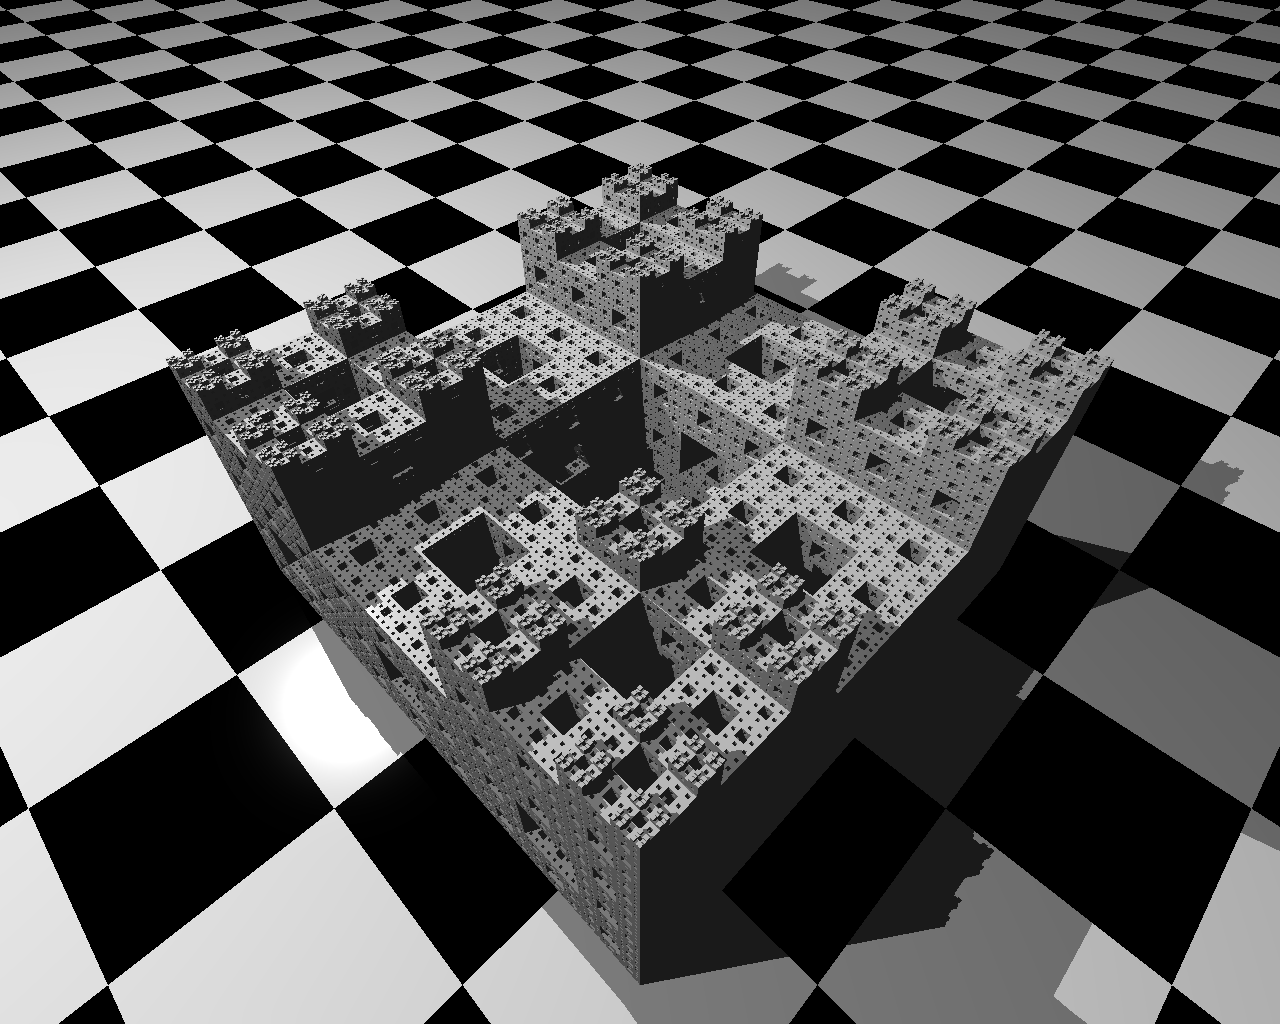
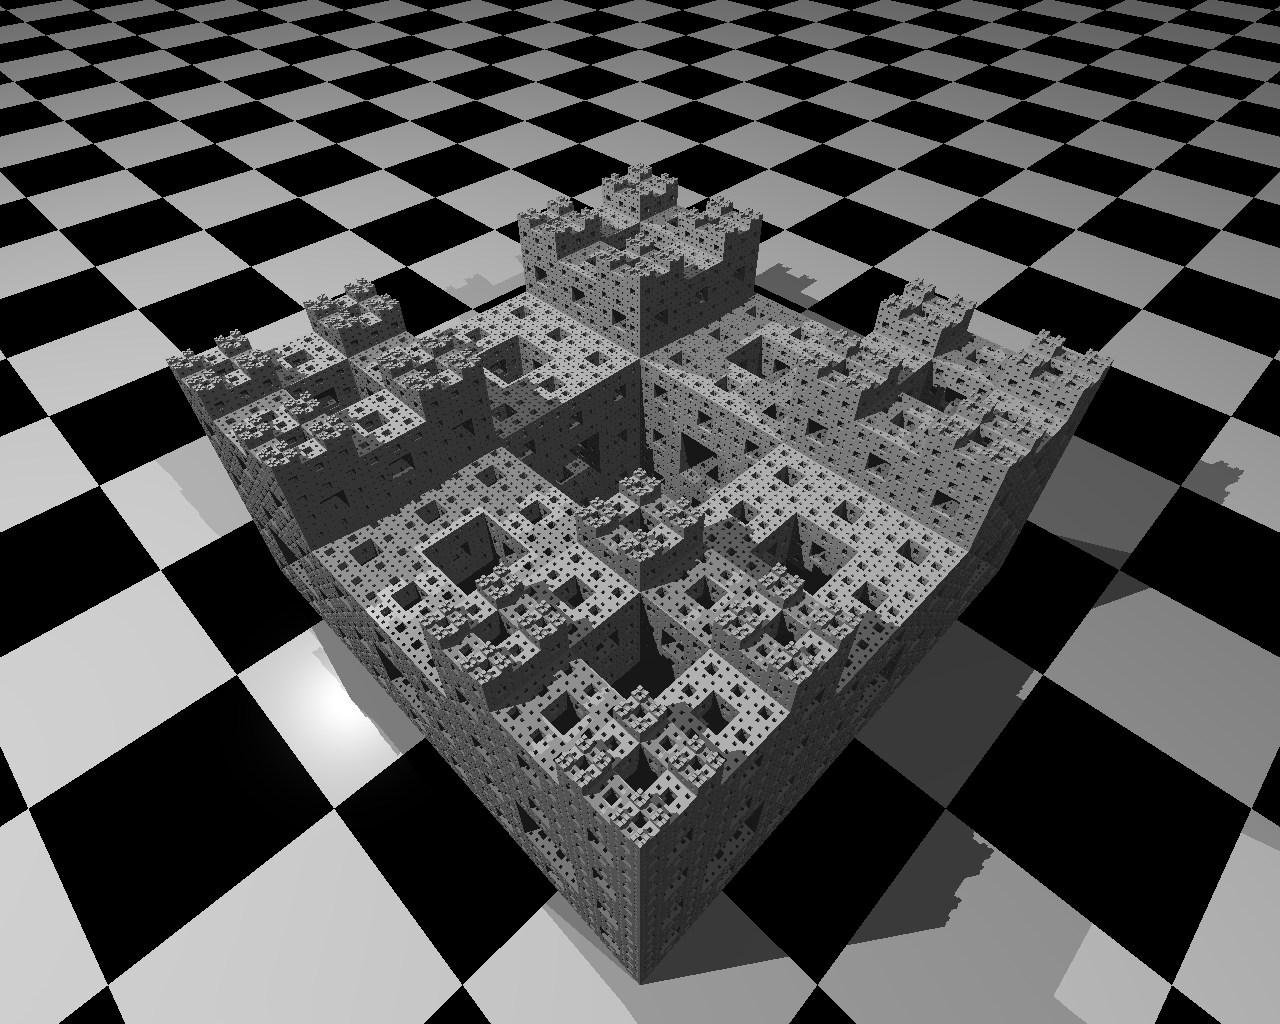
Menger castle: add one more light to have less shadow and more details

diff --git a/ray-tracer-demos/MengerCastleScene.cs b/ray-tracer-demos/MengerCastleScene.cs
@@ -15,7 +15,8 @@ namespace ray_tracer_demos
         {
             DefaultFloor().Translate(ty: -1.5);
             Light(-1, 5, -5, Color.White/2);
-            Light(-5, 5, -1, Color.White/2);
+            Light(-5, 5, -1, Color.White/4);
+            Light(5, 5, -1, Color.White/6);
 
             var sponge2 = new MengerSponge(4);
             var cube = new Cube().Scale(sx: 2, sz: 2).Translate(ty: 1);

diff --git a/ray-tracer-demos/Program.cs b/ray-tracer-demos/Program.cs
@@ -14,7 +14,7 @@ namespace ray_tracer_demos
         static void Main()
         {
             Console.WriteLine($"IsHardwareAccelerated: {Vector.IsHardwareAccelerated}");
-            int nbThreads = Environment.ProcessorCount*0+4;
+            int nbThreads = Environment.ProcessorCount*0+8;
             if (true)
             {
                 Run(new List<Type>
